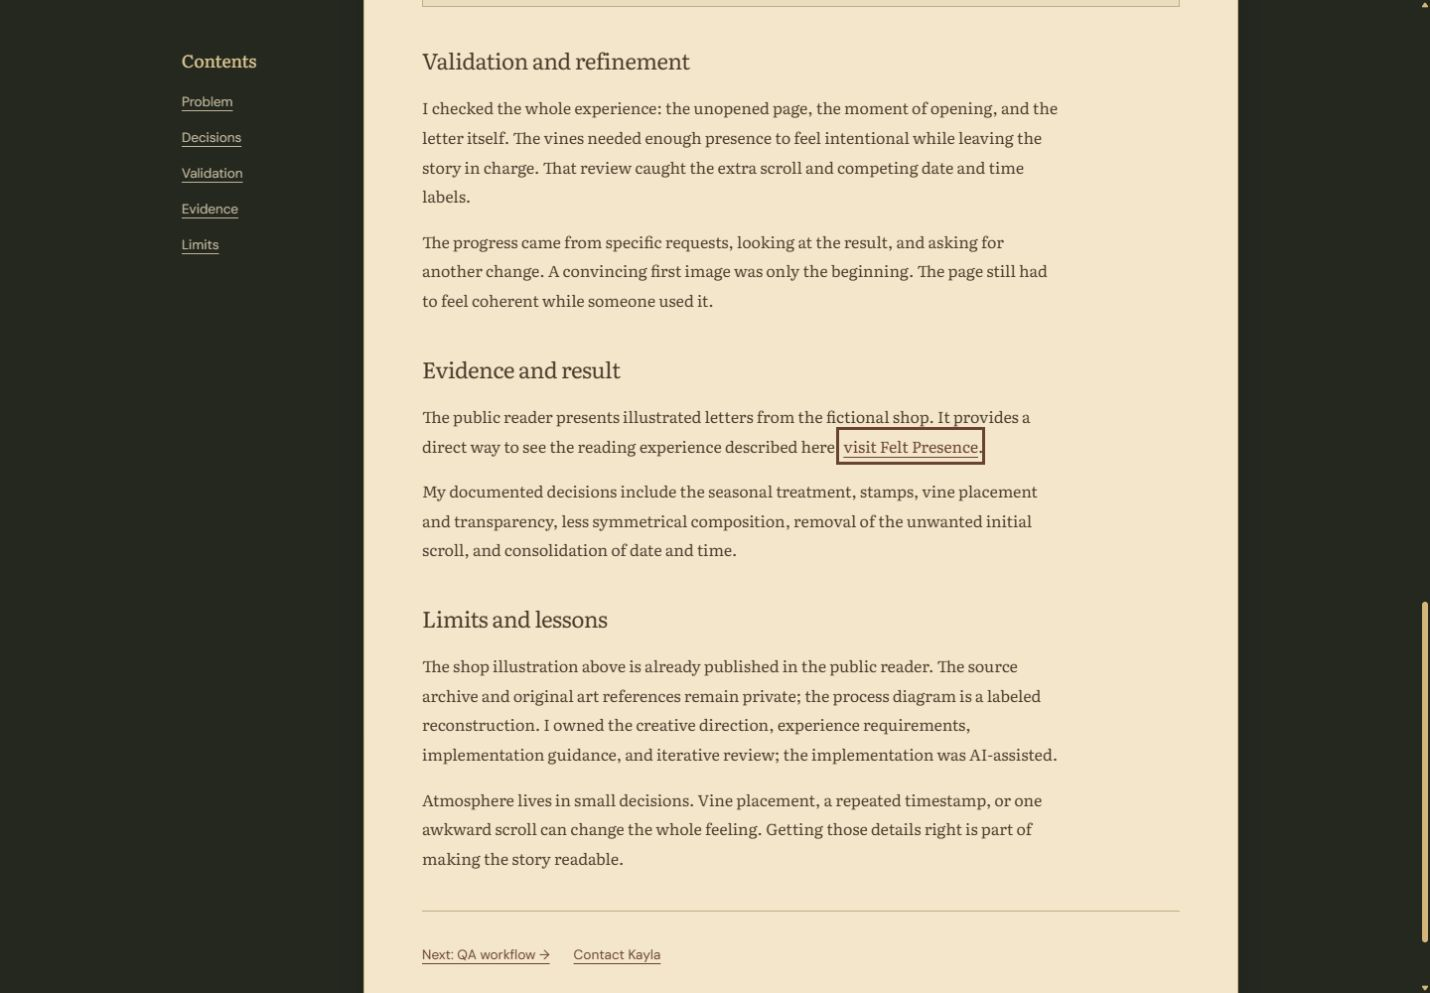
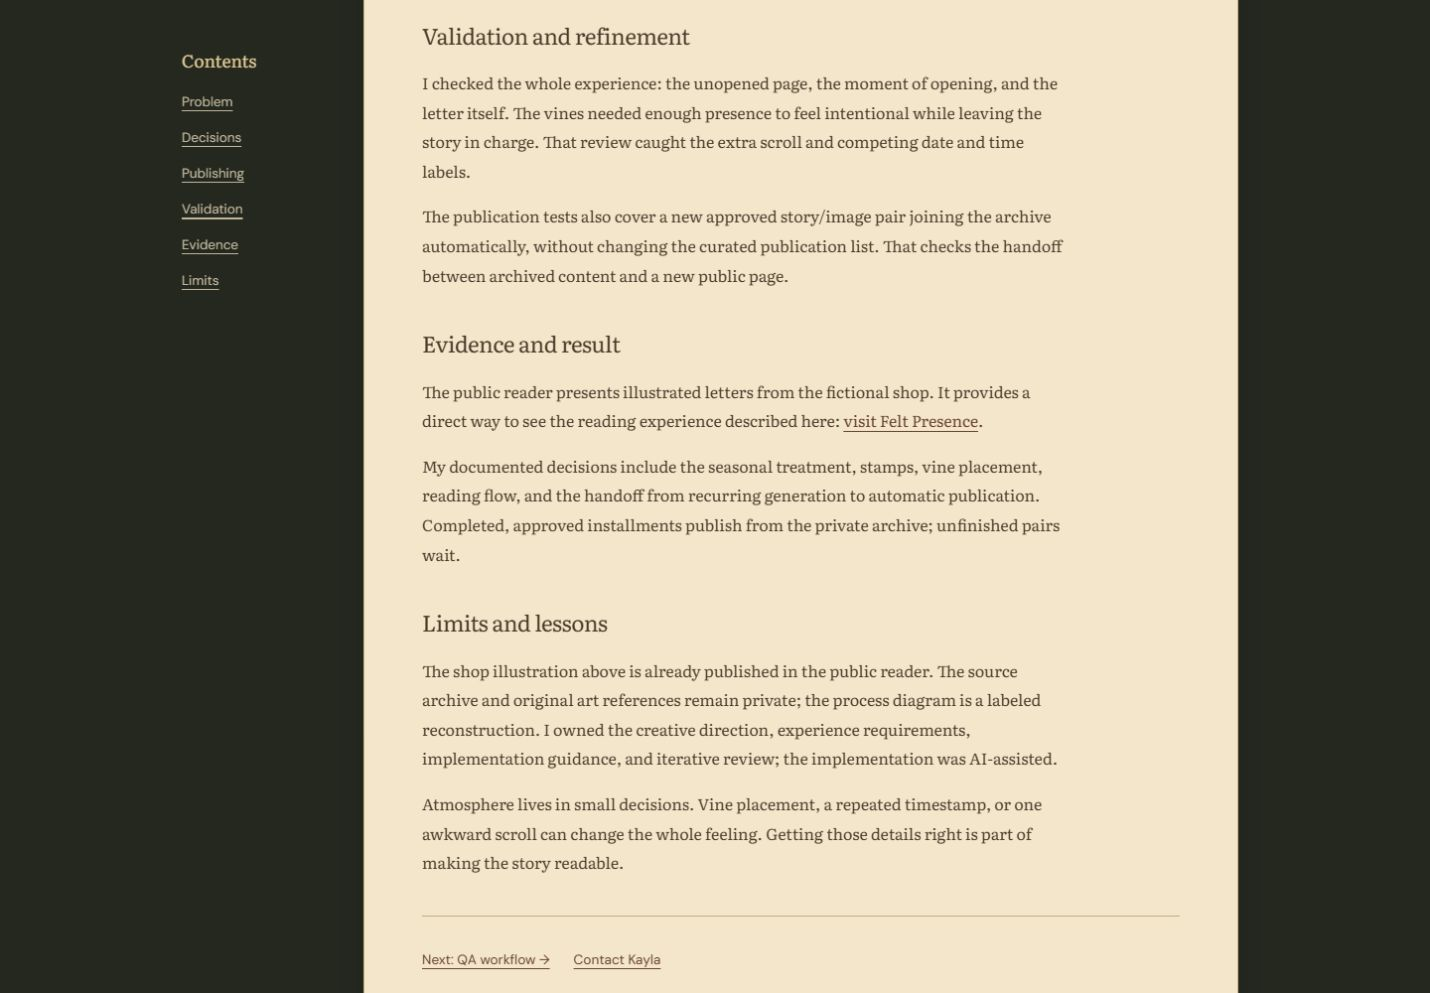
Explain Felt Presence generation and publication workflow

diff --git a/portfolio/projects/felt-presence.html b/portfolio/projects/felt-presence.html
@@ -2,7 +2,7 @@
 <html lang="en" class="felt-case">
 <head>
 <meta charset="UTF-8"><meta name="viewport" content="width=device-width, initial-scale=1">
-<meta name="description" content="How Kayla Young shaped Felt Presence, an illustrated story reader for a fictional haunted craft shop.">
+<meta name="description" content="How Kayla Young shaped Felt Presence, from its illustrated story reader to recurring AI-assisted content and automatic publishing.">
 <title>Felt Presence | Kayla Young</title>
 <link rel="stylesheet" href="/assets/site.css"><link rel="stylesheet" href="case-study.css"><link rel="stylesheet" href="felt-presence.css">
 <script defer src="/assets/site.js"></script>
@@ -16,20 +16,21 @@
 <div class="felt-intro">
 <p class="case-kicker">Personal creative project</p>
 <h1>Felt Presence: shaping a story reader</h1>
-<p class="case-lead">A fictional haunted craft shop needed somewhere to send its letters. I shaped an illustrated reader with seasonal details, a little wandering greenery, and a reading flow that could hold the atmosphere together.</p>
+<p class="case-lead">A fictional haunted craft shop needed somewhere to send its letters. I shaped an illustrated reader with seasonal details and wandering greenery, then connected its recurring AI-assisted content workflow to automatic publishing.</p>
 <p class="felt-invitation"><a href="https://felt-presence.snackdriven.com/">Step inside the shop</a></p>
 </div>
 <figure class="felt-scene"><img src="felt-presence-shop.avif" width="1201" height="800" alt="A small ghost tucked beneath a moss-green quilt in the warm, lamp-lit craft shop, surrounded by wool, dried herbs, and autumn decorations." fetchpriority="high"><figcaption>Illustration from the public reader · October 18, 2026</figcaption></figure>
 </div>
-<dl class="case-facts"><div><dt>Context</dt><dd>Personal story and reader project</dd></div><div><dt>My role</dt><dd>Creative direction, experience requirements, implementation direction, review</dd></div><div><dt>Focus</dt><dd>Seasonal atmosphere, layout, and reading flow</dd></div><div><dt>Status</dt><dd><a href="https://felt-presence.snackdriven.com/">Public reader</a>; private source and story archive</dd></div></dl>
+<dl class="case-facts"><div><dt>Context</dt><dd>Personal story and reader project</dd></div><div><dt>My role</dt><dd>Creative direction, workflow design, AI-assisted implementation direction, review</dd></div><div><dt>Focus</dt><dd>Reading experience, story continuity, and automatic publishing</dd></div><div><dt>Status</dt><dd><a href="https://felt-presence.snackdriven.com/">Public reader</a>; private source and story archive</dd></div></dl>
 <div class="case-layout">
-<nav class="contents" aria-label="On this page"><h2>Contents</h2><a href="#problem">Problem</a><a href="#decisions">Decisions</a><a href="#validation">Validation</a><a href="#evidence">Evidence</a><a href="#limits">Limits</a></nav>
+<nav class="contents" aria-label="On this page"><h2>Contents</h2><a href="#problem">Problem</a><a href="#decisions">Decisions</a><a href="#publishing">Publishing</a><a href="#validation">Validation</a><a href="#evidence">Evidence</a><a href="#limits">Limits</a></nav>
 <article class="case-body">
 <section id="problem"><h2>Problem</h2><p>The reader needed to feel like part of the shop: handmade, seasonal, and a little odd. It also needed to work as a page. The unopened letter and illustration needed room, and the opening view needed to fit without an unnecessary scroll. Even a haunted craft shop has layout requirements.</p></section>
 <section id="decisions"><h2>Decisions and implementation</h2><p>I set the experience requirements and directed AI-assisted implementation. For autumn, that meant stamps, fall colors, and vines reaching into the blank edges. The first vines were very well behaved: symmetrical and tucked into corners. I asked for looser growth, softer transparency, and a curl around a lower corner.</p><p>The date and time needed one clear home. I consolidated repeated labels and removed the extra scroll in the unopened view, so the letter could be the first thing a reader noticed. The decorative decisions had to survive the actual opening and reading flow.</p>
 <figure><p class="figure-label">Illustrative reconstruction · No private story art</p><div class="reconstruction"><div><strong>Decision</strong>Let seasonal details reach the blank edges without crowding the letter.</div><div><strong>Iteration</strong>Reduce symmetry, soften the vines, and add warmer fall color.</div><div><strong>Check</strong>Review the unopened page at its intended size and remove scrolling that interrupted the opening view.</div></div><figcaption>This diagram summarizes a documented design cycle. It is not a screenshot of the reader or an example of private artwork.</figcaption></figure></section>
-<section id="validation"><h2>Validation and refinement</h2><p>I checked the whole experience: the unopened page, the moment of opening, and the letter itself. The vines needed enough presence to feel intentional while leaving the story in charge. That review caught the extra scroll and competing date and time labels.</p><p>The progress came from specific requests, looking at the result, and asking for another change. A convincing first image was only the beginning. The page still had to feel coherent while someone used it.</p></section>
-<section id="evidence"><h2>Evidence and result</h2><p>The public reader presents illustrated letters from the fictional shop. It provides a direct way to see the reading experience described here: <a href="https://felt-presence.snackdriven.com/">visit Felt Presence</a>.</p><p>My documented decisions include the seasonal treatment, stamps, vine placement and transparency, less symmetrical composition, removal of the unwanted initial scroll, and consolidation of date and time.</p></section>
+<section id="publishing"><h2>Keeping the shop stocked</h2><p>I configured recurring AI-assisted story and illustration generation around the archive’s continuity and visual references. I connected that workflow to publication: once a complete story and accepted image are archived and pushed, Cloudflare rebuilds the Eleventy reader. Each new letter gets a place in the shop without a separate manual publishing step.</p><p>Generation and publishing have separate jobs. The build checks story/image pairs and approval metadata; incomplete pairs stay pending. Image checksums must match, conflicting records fail deployment, and the previous good version stays live. An archive retry reuses the accepted image instead of generating another one. Even a haunted shop benefits from sensible stock control.</p></section>
+<section id="validation"><h2>Validation and refinement</h2><p>I checked the whole experience: the unopened page, the moment of opening, and the letter itself. The vines needed enough presence to feel intentional while leaving the story in charge. That review caught the extra scroll and competing date and time labels.</p><p>The publication tests also cover a new approved story/image pair joining the archive automatically, without changing the curated publication list. That checks the handoff between archived content and a new public page.</p></section>
+<section id="evidence"><h2>Evidence and result</h2><p>The public reader presents illustrated letters from the fictional shop. It provides a direct way to see the reading experience described here: <a href="https://felt-presence.snackdriven.com/">visit Felt Presence</a>.</p><p>My documented decisions include the seasonal treatment, stamps, vine placement, reading flow, and the handoff from recurring generation to automatic publication. Completed, approved installments publish from the private archive; unfinished pairs wait.</p></section>
 <section id="limits"><h2>Limits and lessons</h2><p>The shop illustration above is already published in the public reader. The source archive and original art references remain private; the process diagram is a labeled reconstruction. I owned the creative direction, experience requirements, implementation guidance, and iterative review; the implementation was AI-assisted.</p><p>Atmosphere lives in small decisions. Vine placement, a repeated timestamp, or one awkward scroll can change the whole feeling. Getting those details right is part of making the story readable.</p></section>
 <footer class="case-footer"><a href="qa-workflow.html">Next: QA workflow &rarr;</a><a href="mailto:kayla@snackdriven.com">Contact Kayla</a></footer>
 </article></div></main>

diff --git a/verification/felt-presence-theme.md b/verification/felt-presence-theme.md
@@ -9,6 +9,7 @@ This change applies only to `/portfolio/projects/felt-presence.html` and its ded
 - The image is labeled as an illustration from the public reader. The existing process diagram remains labeled as a reconstruction.
 - The three font files match the reader's existing font assets; their accompanying SIL Open Font License texts are included in `portfolio/projects/felt-fonts/`.
 - No private story text, original character reference art, or private archive content was added.
+- The publishing section was checked against the current reader deployment documentation and the archive/catalog test source. It distinguishes recurring AI-assisted generation/archiving from the push-triggered Cloudflare build, and retains pending-pair, approval, checksum, retry, and last-good-deployment boundaries. These reader tests were inspected, not rerun during this portfolio-only update.
 
 ## Validation
 
@@ -28,3 +29,5 @@ This change applies only to `/portfolio/projects/felt-presence.html` and its ded
 - `felt-presence-themed-mobile.jpg`: 390px mobile opening view.
 - `felt-presence-themed-desktop-reading.jpg`: desktop paper/content detail.
 - `felt-presence-themed-mobile-reading.jpg`: 390px mobile paper/content detail.
+- `felt-presence-publishing-desktop.jpg`: automatic-publication section on desktop.
+- `felt-presence-publishing-mobile.jpg`: automatic-publication section at 390px.
